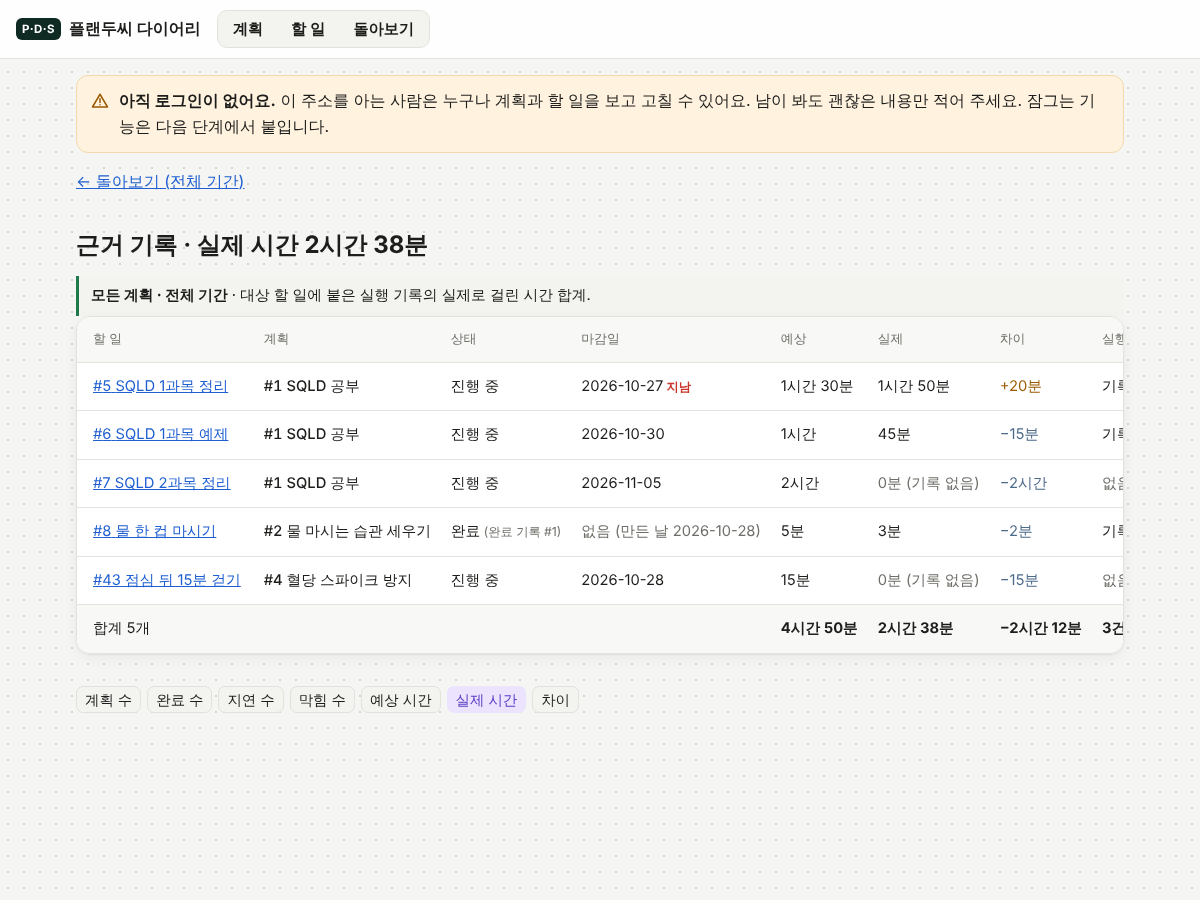
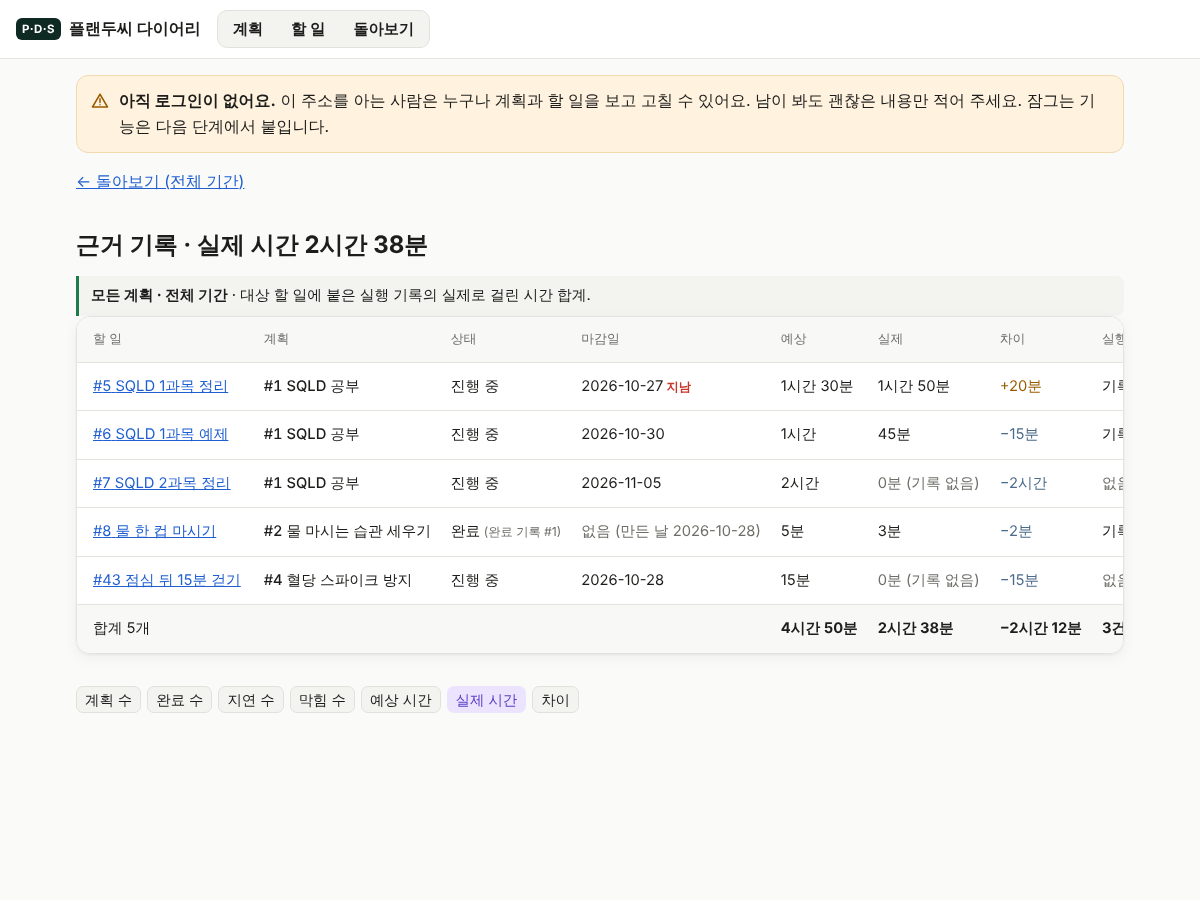
배경 점무늬 없애고 배경색을 조금 더 밝게 (#f5f5f3 → #fafaf8)
Claude-Session: https://claude.ai/code/session_01DeHxziHUAe39ZSbhjk3W5c

diff --git a/app/globals.css b/app/globals.css
@@ -1,9 +1,9 @@
 /* 워크플로 카드 스타일
-   - 점무늬 배경 위에 흰 카드, 카드 위에 작은 색 라벨 탭(계획=노랑, 할 일=파랑, 완료=초록)
+   - 밝은 민무늬 배경 위에 흰 카드, 카드 위에 작은 색 라벨 탭(계획=노랑, 할 일=파랑, 완료=초록)
    - 정보는 회색 칩, 마감 지남 같은 경고만 빨간 칩
    - 입력 폼은 연두색 상태줄이 달린 프롬프트 박스 */
 :root {
-  --bg: #f5f5f3; --dot: #d6d6d1; --fg: #1d1d1b; --muted: #6e6e68; --card: #fff; --line: #e4e4df;
+  --bg: #fafaf8; --fg: #1d1d1b; --muted: #6e6e68; --card: #fff; --line: #e4e4df;
   --chip: #f3f3f0; --chip-line: #e2e2dc; --shadow: 0 1px 2px rgb(0 0 0 / .05), 0 4px 14px rgb(0 0 0 / .05);
   --accent: #1f7a4c; --link: #1f5fd1;
   --plan-bg: #fdf1bf; --plan-fg: #7a5d00;
@@ -18,7 +18,7 @@
 }
 @media (prefers-color-scheme: dark) {
   :root {
-    --bg: #141413; --dot: #2c2c29; --fg: #ecebe6; --muted: #a3a29b; --card: #1f1f1d; --line: #34332f;
+    --bg: #171716; --fg: #ecebe6; --muted: #a3a29b; --card: #1f1f1d; --line: #34332f;
     --chip: #2a2a27; --chip-line: #3a3935; --shadow: 0 1px 2px rgb(0 0 0 / .4), 0 4px 14px rgb(0 0 0 / .3);
     --accent: #7cd3a0; --link: #8db4ff;
     --plan-bg: #4a3d0c; --plan-fg: #f5d76e;
@@ -36,8 +36,7 @@
 * { box-sizing: border-box; }
 body {
   margin: 0; color: var(--fg);
-  /* 점무늬 배경: 1px 점을 16px 간격으로 반복 */
-  background: var(--bg) radial-gradient(var(--dot) 1px, transparent 1.2px) 0 0 / 16px 16px;
+  background: var(--bg);
   font: 16px/1.6 system-ui, -apple-system, 'Apple SD Gothic Neo', 'Noto Sans KR', sans-serif;
 }
 a { color: var(--link); }
